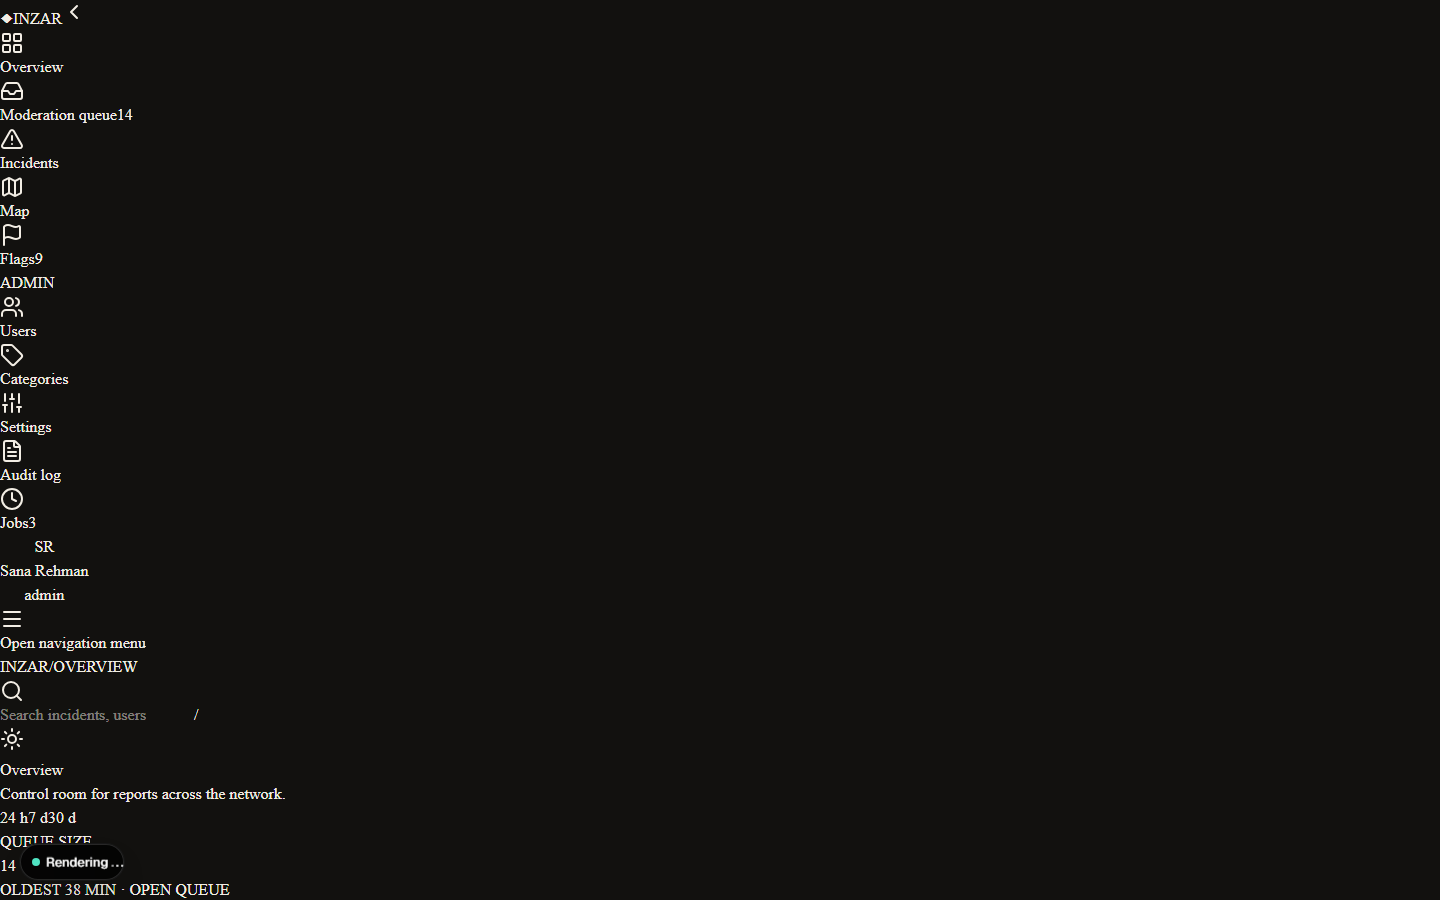
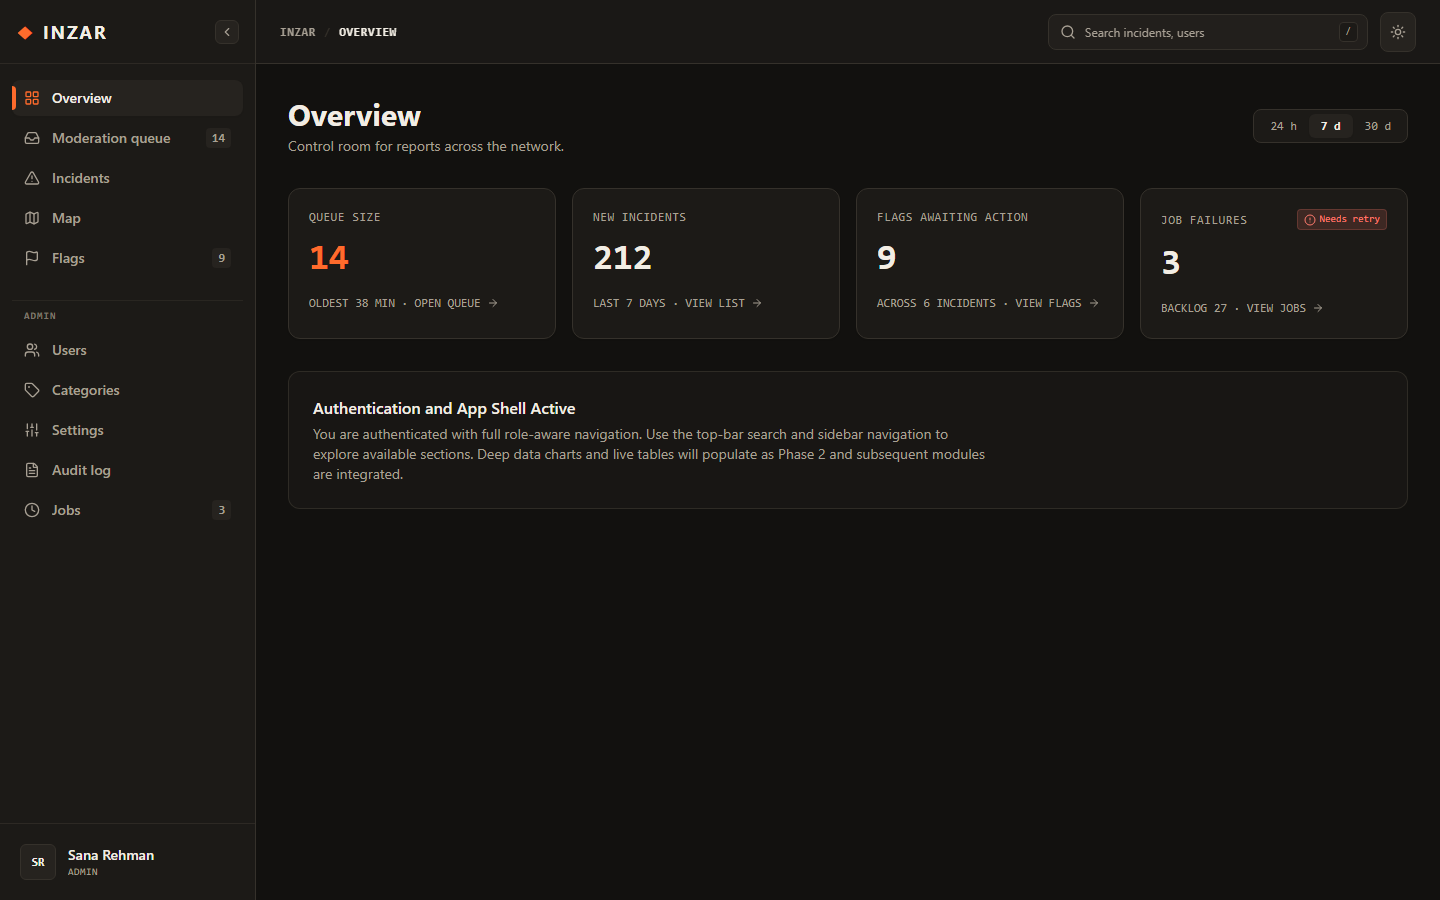
fix(phase-1): resolve hydration mismatch, tailwind postcss configuration, and proxy migration

diff --git a/e2e/auth-and-shell.spec.ts b/e2e/auth-and-shell.spec.ts
@@ -13,7 +13,7 @@ test.describe('Phase 1: Authentication and App Shell', () => {
     await page.fill('#password', 'WrongPassword123');
     await page.click('button[type="submit"]');
 
-    await expect(page.getByRole('alert')).toBeVisible();
+    await expect(page.getByText('Authentication Error')).toBeVisible();
     await expect(page.getByText('Invalid email or password')).toBeVisible();
   });
 
@@ -23,7 +23,7 @@ test.describe('Phase 1: Authentication and App Shell', () => {
     await page.fill('#password', 'Password123!');
     await page.click('button[type="submit"]');
 
-    await expect(page.getByRole('alert')).toBeVisible();
+    await expect(page.getByText('Authentication Error')).toBeVisible();
     await expect(
       page.getByText('Access restricted to staff accounts only')
     ).toBeVisible();
@@ -38,28 +38,26 @@ test.describe('Phase 1: Authentication and App Shell', () => {
     await expect(page).toHaveURL('/');
     await expect(page.getByRole('heading', { name: 'Overview' })).toBeVisible();
 
-    const isMobile = (page.viewportSize()?.width ?? 1440) < 768;
+    const isMobile = (page.viewportSize()?.width ?? 1440) < 1024;
     if (isMobile) {
+      // Open drawer on tablet / mobile
       const menuButton = page.locator('header').getByRole('button').first();
       await menuButton.click();
     }
 
-    const aside = page.locator('aside:visible').first();
-    const nav = aside.locator('nav');
+    const nav = page.locator('aside nav');
 
-    // Verify user account menu in visible sidebar
-    const userMenu = aside.getByRole('button', { name: 'User account menu' });
-    await expect(userMenu).toBeVisible();
-    await expect(userMenu).toContainText('Sana Rehman');
-    await expect(userMenu).toContainText('admin');
+    // Verify user card in sidebar
+    await expect(page.locator('aside').getByText('Sana Rehman')).toBeVisible();
+    await expect(page.locator('aside').getByRole('button', { name: 'User account menu' })).toContainText('admin');
 
     // Verify ADMIN section exists in sidebar nav
-    await expect(aside.getByText('ADMIN', { exact: true }).first()).toBeVisible();
-    await expect(nav.getByRole('link', { name: /Users/i }).first()).toBeVisible();
-    await expect(nav.getByRole('link', { name: /Categories/i }).first()).toBeVisible();
-    await expect(nav.getByRole('link', { name: /Settings/i }).first()).toBeVisible();
-    await expect(nav.getByRole('link', { name: /Audit log/i }).first()).toBeVisible();
-    await expect(nav.getByRole('link', { name: /Jobs/i }).first()).toBeVisible();
+    await expect(page.locator('aside').getByText('ADMIN', { exact: true })).toBeVisible();
+    await expect(nav.getByRole('link', { name: /Users/i })).toBeVisible();
+    await expect(nav.getByRole('link', { name: /Categories/i })).toBeVisible();
+    await expect(nav.getByRole('link', { name: /Settings/i })).toBeVisible();
+    await expect(nav.getByRole('link', { name: /Audit log/i })).toBeVisible();
+    await expect(nav.getByRole('link', { name: /Jobs/i })).toBeVisible();
 
     // Screenshot at current viewport
     const width = page.viewportSize()?.width ?? 1440;
@@ -74,30 +72,26 @@ test.describe('Phase 1: Authentication and App Shell', () => {
 
     await expect(page).toHaveURL('/');
 
-    const isMobile = (page.viewportSize()?.width ?? 1440) < 768;
+    const isMobile = (page.viewportSize()?.width ?? 1440) < 1024;
     if (isMobile) {
       const menuButton = page.locator('header').getByRole('button').first();
       await menuButton.click();
     }
 
-    const aside = page.locator('aside:visible').first();
-    const nav = aside.locator('nav');
+    const nav = page.locator('aside nav');
 
-    const userMenu = aside.getByRole('button', { name: 'User account menu' });
-    await expect(userMenu).toBeVisible();
-    await expect(userMenu).toContainText('Ali Khan');
-    await expect(userMenu).toContainText('moderator');
+    await expect(page.locator('aside').getByText('Ali Khan')).toBeVisible();
+    await expect(page.locator('aside').getByText(/moderator/i)).toBeVisible();
 
     // Operational items visible
-    await expect(nav.getByRole('link', { name: /Overview/i }).first()).toBeVisible();
-    await expect(nav.getByRole('link', { name: /Moderation queue/i }).first()).toBeVisible();
-    await expect(nav.getByRole('link', { name: /Incidents/i }).first()).toBeVisible();
+    await expect(nav.getByRole('link', { name: /Overview/i })).toBeVisible();
+    await expect(nav.getByRole('link', { name: /Moderation queue/i })).toBeVisible();
+    await expect(nav.getByRole('link', { name: /Incidents/i })).toBeVisible();
 
     // Admin-only items must NOT be visible
-    await expect(aside.getByText('ADMIN', { exact: true })).toHaveCount(0);
-    await expect(nav.getByRole('link', { name: /Users/i })).toHaveCount(0);
-    await expect(nav.getByRole('link', { name: /Categories/i })).toHaveCount(0);
-    await expect(nav.getByRole('link', { name: /Settings/i })).toHaveCount(0);
+    await expect(nav.getByRole('link', { name: /Users/i })).not.toBeVisible();
+    await expect(nav.getByRole('link', { name: /Categories/i })).not.toBeVisible();
+    await expect(nav.getByRole('link', { name: /Settings/i })).not.toBeVisible();
   });
 
   test('moderator attempting to access admin route is blocked with 403', async ({ page }) => {
@@ -139,14 +133,14 @@ test.describe('Phase 1: Authentication and App Shell', () => {
     await page.click('button[type="submit"]');
     await expect(page).toHaveURL('/');
 
-    const isMobile = (page.viewportSize()?.width ?? 1440) < 768;
+    const isMobile = (page.viewportSize()?.width ?? 1440) < 1024;
     if (isMobile) {
       const menuButton = page.locator('header').getByRole('button').first();
       await menuButton.click();
     }
 
-    const aside = page.locator('aside:visible').first();
-    await aside.getByRole('button', { name: 'User account menu' }).click();
+    // Open user menu
+    await page.locator('aside').getByRole('button', { name: 'User account menu' }).click();
     await page.getByRole('menuitem', { name: 'Sign out' }).click();
 
     await expect(page).toHaveURL('/login');

diff --git a/src/components/layout/topbar.tsx b/src/components/layout/topbar.tsx
@@ -19,9 +19,16 @@ interface TopbarProps {
   user: SessionUser;
 }
 
+const emptySubscribe = () => () => {};
+
 export function Topbar({ user }: TopbarProps) {
   const pathname = usePathname();
   const { theme, setTheme } = useTheme();
+  const mounted = React.useSyncExternalStore(
+    emptySubscribe,
+    () => true,
+    () => false
+  );
 
   // Generate breadcrumb title
   const getBreadcrumb = () => {
@@ -82,11 +89,16 @@ export function Topbar({ user }: TopbarProps) {
           onClick={() => setTheme(theme === 'dark' ? 'light' : 'dark')}
           className="h-9 w-9 rounded-lg border-border bg-surface-elevated hover:bg-surface text-muted-foreground hover:text-foreground"
           aria-label="Toggle color theme"
+          suppressHydrationWarning
         >
-          {theme === 'dark' ? (
-            <Sun className="h-4 w-4 transition-transform" />
+          {mounted ? (
+            theme === 'dark' ? (
+              <Sun className="h-4 w-4 transition-transform" />
+            ) : (
+              <Moon className="h-4 w-4 transition-transform" />
+            )
           ) : (
-            <Moon className="h-4 w-4 transition-transform" />
+            <span className="h-4 w-4" />
           )}
         </Button>
       </div>

diff --git a/src/proxy.ts b/src/proxy.ts
@@ -3,7 +3,7 @@ import type { NextRequest } from 'next/server';
 import { unsealSession, SESSION_COOKIE_NAME } from '@/lib/auth/session';
 import { canAccessPath, isStaff } from '@/lib/permissions';
 
-export async function middleware(request: NextRequest) {
+export async function proxy(request: NextRequest) {
   const { pathname } = request.nextUrl;
 
   // Read session cookie

diff --git a/playwright.config.ts b/playwright.config.ts
@@ -30,7 +30,7 @@ export default defineConfig({
   webServer: {
     command: 'pnpm start',
     url: 'http://localhost:3000',
-    reuseExistingServer: !process.env.CI,
+    reuseExistingServer: false,
     timeout: 120 * 1000,
   },
 });

diff --git a/src/components/data-table/data-table.tsx b/src/components/data-table/data-table.tsx
@@ -35,6 +35,7 @@ export function DataTable<TData, TValue>({
   onRowSelectionChange,
   className,
 }: DataTableProps<TData, TValue>) {
+  'use no memo';
   const table = useReactTable({
     data,
     columns,
